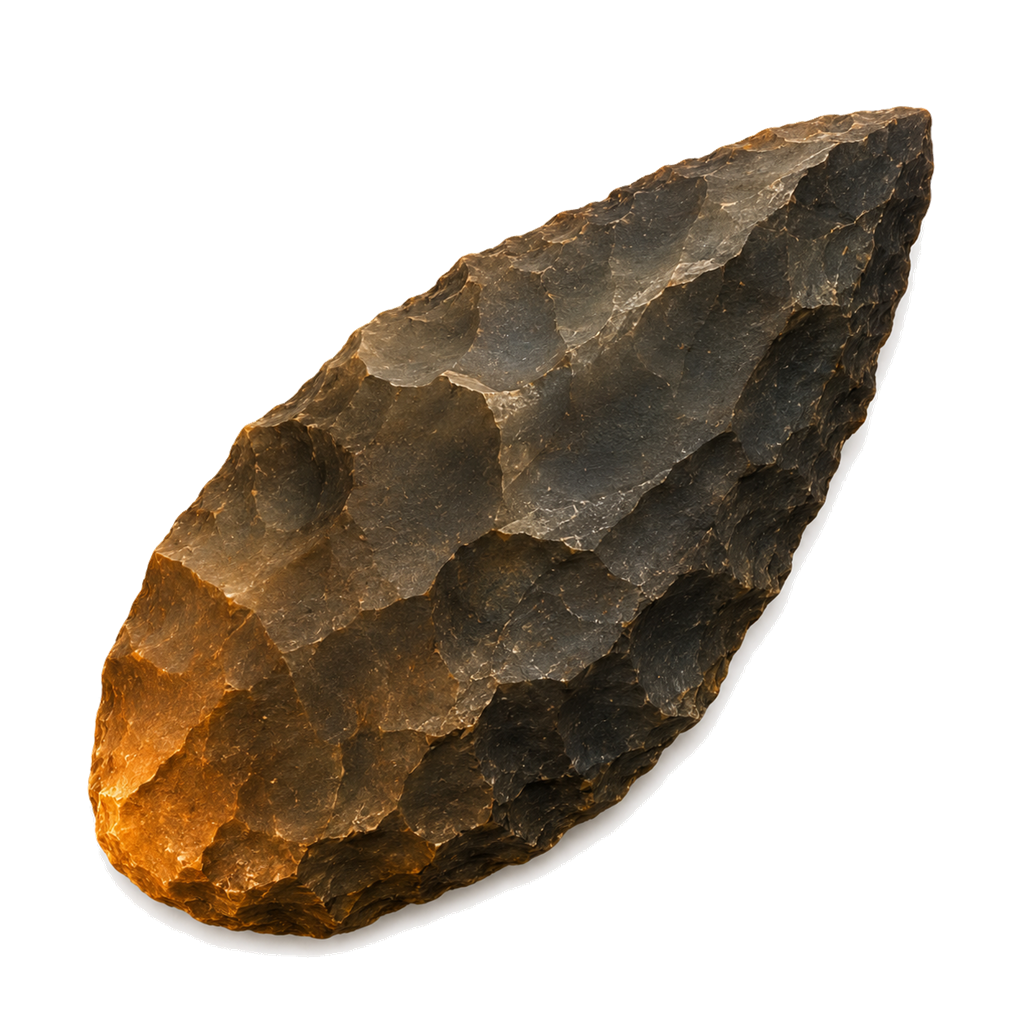
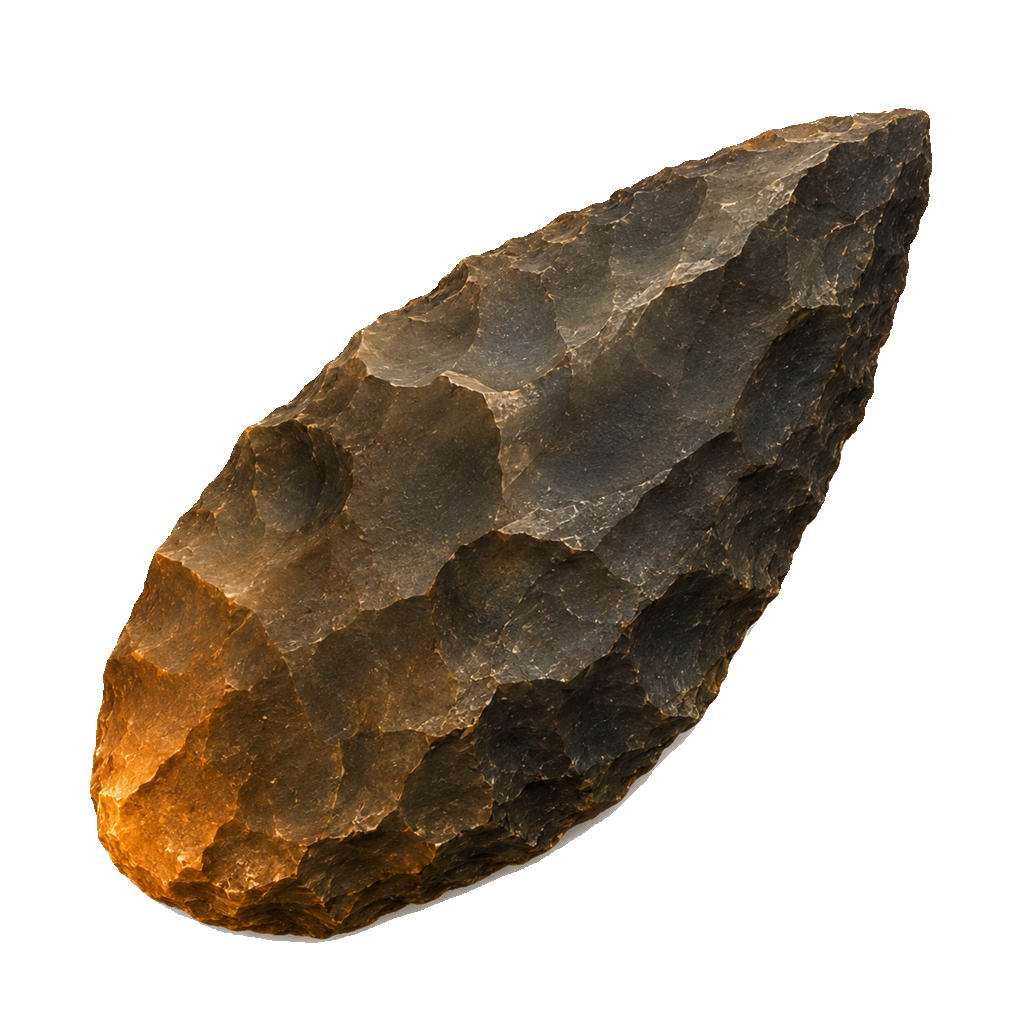
Limpa contorno do silex

diff --git a/styles.css b/styles.css
@@ -4376,10 +4376,7 @@ body[data-view="lesson"] .lesson-view[data-section="revolucao-neolitica"] .story
   border-radius: 0;
   color: transparent;
   background: transparent;
-  filter:
-    drop-shadow(0 8px 10px rgba(12, 7, 4, 0.25))
-    drop-shadow(0 18px 22px rgba(41, 20, 9, 0.2))
-    drop-shadow(-12px 12px 18px rgba(224, 104, 38, 0.18));
+  filter: none;
   opacity: 0;
   transform: translate3d(-3.6vw, calc(2.8vh + 18px), 0) scale(0.92) rotate(-6deg);
   animation: prehistory-flint-reveal 1.2s cubic-bezier(0.16, 1, 0.3, 1) forwards;
@@ -4404,6 +4401,7 @@ body[data-view="lesson"] .lesson-view[data-section="revolucao-neolitica"] .story
 }
 
 .prehistory-flint-picture::before {
+  display: none;
   background:
     radial-gradient(ellipse at 18% 78%, rgba(250, 135, 48, 0.42), transparent 34%),
     radial-gradient(ellipse at 42% 68%, rgba(191, 91, 37, 0.24), transparent 38%),
@@ -4415,6 +4413,7 @@ body[data-view="lesson"] .lesson-view[data-section="revolucao-neolitica"] .story
 }
 
 .prehistory-flint-picture::after {
+  display: none;
   inset: 14% 8% 13%;
   background:
     radial-gradient(circle at 18% 34%, rgba(110, 65, 38, 0.22) 0 1px, transparent 2px),
@@ -4432,10 +4431,11 @@ body[data-view="lesson"] .lesson-view[data-section="revolucao-neolitica"] .story
   object-fit: contain;
   object-position: center;
   transform: translateZ(0);
-  filter: sepia(0.34) saturate(1.08) contrast(0.88) brightness(1.02) hue-rotate(-5deg);
+  filter: none;
 }
 
 .storyblock-prehistory[data-prehistory-artifact="flint"] .prehistory-artifact::before {
+  display: none;
   inset: 62% 18% 6% 12%;
   z-index: 1;
   border: 0;
@@ -4454,6 +4454,7 @@ body[data-view="lesson"] .lesson-view[data-section="revolucao-neolitica"] .story
 
 .storyblock-prehistory[data-prehistory-artifact="flint"] .prehistory-artifact::after {
   content: "";
+  display: none;
   inset: 42% 56% 18% 3%;
   z-index: 4;
   border-radius: 58% 42% 70% 30%;
@@ -5077,13 +5078,7 @@ body[data-view="lesson"] .lesson-view[data-section="revolucao-neolitica"] .story
   0% {
     opacity: 0;
     transform: translate3d(-3.6vw, calc(2.8vh + 18px), 0) scale(0.92) rotate(-8deg);
-    filter:
-      sepia(0.1)
-      contrast(1.18)
-      brightness(0.88)
-      saturate(0.76)
-      drop-shadow(0 12px 12px rgba(8, 6, 4, 0.28))
-      drop-shadow(-4px 5px 8px rgba(226, 109, 43, 0.08));
+    filter: none;
   }
   58% {
     opacity: 0.86;
@@ -5091,14 +5086,7 @@ body[data-view="lesson"] .lesson-view[data-section="revolucao-neolitica"] .story
   100% {
     opacity: 0.96;
     transform: translate3d(-3.6vw, calc(2.8vh + 18px), 0) scale(1) rotate(-5deg);
-    filter:
-      sepia(0.1)
-      contrast(1.18)
-      brightness(0.88)
-      saturate(0.76)
-      drop-shadow(0 18px 16px rgba(8, 6, 4, 0.66))
-      drop-shadow(-7px 9px 18px rgba(16, 10, 7, 0.34))
-      drop-shadow(-10px 7px 13px rgba(226, 109, 43, 0.18));
+    filter: none;
   }
 }
 
@@ -5106,13 +5094,7 @@ body[data-view="lesson"] .lesson-view[data-section="revolucao-neolitica"] .story
   0% {
     opacity: 0;
     transform: translate3d(-6vw, calc(1vh + 16px), 0) scale(0.92) rotate(-8deg);
-    filter:
-      sepia(0.1)
-      contrast(1.18)
-      brightness(0.88)
-      saturate(0.76)
-      drop-shadow(0 12px 12px rgba(8, 6, 4, 0.28))
-      drop-shadow(-4px 5px 8px rgba(226, 109, 43, 0.08));
+    filter: none;
   }
   58% {
     opacity: 0.86;
@@ -5120,14 +5102,7 @@ body[data-view="lesson"] .lesson-view[data-section="revolucao-neolitica"] .story
   100% {
     opacity: 0.96;
     transform: translate3d(-6vw, calc(1vh + 16px), 0) scale(1) rotate(-5deg);
-    filter:
-      sepia(0.1)
-      contrast(1.18)
-      brightness(0.88)
-      saturate(0.76)
-      drop-shadow(0 18px 16px rgba(8, 6, 4, 0.66))
-      drop-shadow(-7px 9px 18px rgba(16, 10, 7, 0.34))
-      drop-shadow(-10px 7px 13px rgba(226, 109, 43, 0.18));
+    filter: none;
   }
 }
 

diff --git a/styles/05-lesson-experience.css b/styles/05-lesson-experience.css
@@ -1002,10 +1002,7 @@ body[data-view="lesson"] .lesson-view[data-section="revolucao-neolitica"] .story
   border-radius: 0;
   color: transparent;
   background: transparent;
-  filter:
-    drop-shadow(0 8px 10px rgba(12, 7, 4, 0.25))
-    drop-shadow(0 18px 22px rgba(41, 20, 9, 0.2))
-    drop-shadow(-12px 12px 18px rgba(224, 104, 38, 0.18));
+  filter: none;
   opacity: 0;
   transform: translate3d(-3.6vw, calc(2.8vh + 18px), 0) scale(0.92) rotate(-6deg);
   animation: prehistory-flint-reveal 1.2s cubic-bezier(0.16, 1, 0.3, 1) forwards;
@@ -1030,6 +1027,7 @@ body[data-view="lesson"] .lesson-view[data-section="revolucao-neolitica"] .story
 }
 
 .prehistory-flint-picture::before {
+  display: none;
   background:
     radial-gradient(ellipse at 18% 78%, rgba(250, 135, 48, 0.42), transparent 34%),
     radial-gradient(ellipse at 42% 68%, rgba(191, 91, 37, 0.24), transparent 38%),
@@ -1041,6 +1039,7 @@ body[data-view="lesson"] .lesson-view[data-section="revolucao-neolitica"] .story
 }
 
 .prehistory-flint-picture::after {
+  display: none;
   inset: 14% 8% 13%;
   background:
     radial-gradient(circle at 18% 34%, rgba(110, 65, 38, 0.22) 0 1px, transparent 2px),
@@ -1058,10 +1057,11 @@ body[data-view="lesson"] .lesson-view[data-section="revolucao-neolitica"] .story
   object-fit: contain;
   object-position: center;
   transform: translateZ(0);
-  filter: sepia(0.34) saturate(1.08) contrast(0.88) brightness(1.02) hue-rotate(-5deg);
+  filter: none;
 }
 
 .storyblock-prehistory[data-prehistory-artifact="flint"] .prehistory-artifact::before {
+  display: none;
   inset: 62% 18% 6% 12%;
   z-index: 1;
   border: 0;
@@ -1080,6 +1080,7 @@ body[data-view="lesson"] .lesson-view[data-section="revolucao-neolitica"] .story
 
 .storyblock-prehistory[data-prehistory-artifact="flint"] .prehistory-artifact::after {
   content: "";
+  display: none;
   inset: 42% 56% 18% 3%;
   z-index: 4;
   border-radius: 58% 42% 70% 30%;
@@ -1703,13 +1704,7 @@ body[data-view="lesson"] .lesson-view[data-section="revolucao-neolitica"] .story
   0% {
     opacity: 0;
     transform: translate3d(-3.6vw, calc(2.8vh + 18px), 0) scale(0.92) rotate(-8deg);
-    filter:
-      sepia(0.1)
-      contrast(1.18)
-      brightness(0.88)
-      saturate(0.76)
-      drop-shadow(0 12px 12px rgba(8, 6, 4, 0.28))
-      drop-shadow(-4px 5px 8px rgba(226, 109, 43, 0.08));
+    filter: none;
   }
   58% {
     opacity: 0.86;
@@ -1717,14 +1712,7 @@ body[data-view="lesson"] .lesson-view[data-section="revolucao-neolitica"] .story
   100% {
     opacity: 0.96;
     transform: translate3d(-3.6vw, calc(2.8vh + 18px), 0) scale(1) rotate(-5deg);
-    filter:
-      sepia(0.1)
-      contrast(1.18)
-      brightness(0.88)
-      saturate(0.76)
-      drop-shadow(0 18px 16px rgba(8, 6, 4, 0.66))
-      drop-shadow(-7px 9px 18px rgba(16, 10, 7, 0.34))
-      drop-shadow(-10px 7px 13px rgba(226, 109, 43, 0.18));
+    filter: none;
   }
 }
 
@@ -1732,13 +1720,7 @@ body[data-view="lesson"] .lesson-view[data-section="revolucao-neolitica"] .story
   0% {
     opacity: 0;
     transform: translate3d(-6vw, calc(1vh + 16px), 0) scale(0.92) rotate(-8deg);
-    filter:
-      sepia(0.1)
-      contrast(1.18)
-      brightness(0.88)
-      saturate(0.76)
-      drop-shadow(0 12px 12px rgba(8, 6, 4, 0.28))
-      drop-shadow(-4px 5px 8px rgba(226, 109, 43, 0.08));
+    filter: none;
   }
   58% {
     opacity: 0.86;
@@ -1746,14 +1728,7 @@ body[data-view="lesson"] .lesson-view[data-section="revolucao-neolitica"] .story
   100% {
     opacity: 0.96;
     transform: translate3d(-6vw, calc(1vh + 16px), 0) scale(1) rotate(-5deg);
-    filter:
-      sepia(0.1)
-      contrast(1.18)
-      brightness(0.88)
-      saturate(0.76)
-      drop-shadow(0 18px 16px rgba(8, 6, 4, 0.66))
-      drop-shadow(-7px 9px 18px rgba(16, 10, 7, 0.34))
-      drop-shadow(-10px 7px 13px rgba(226, 109, 43, 0.18));
+    filter: none;
   }
 }
 
